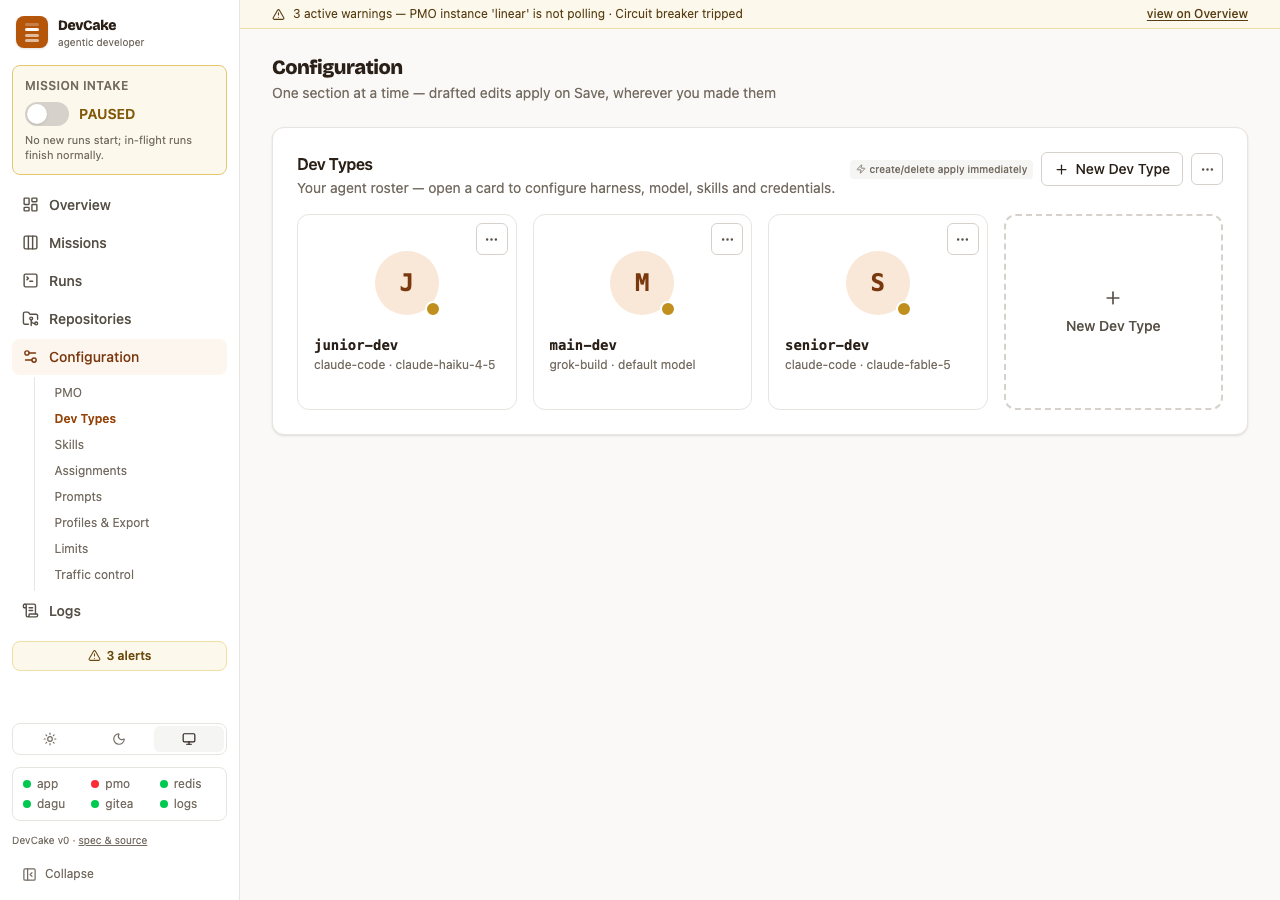
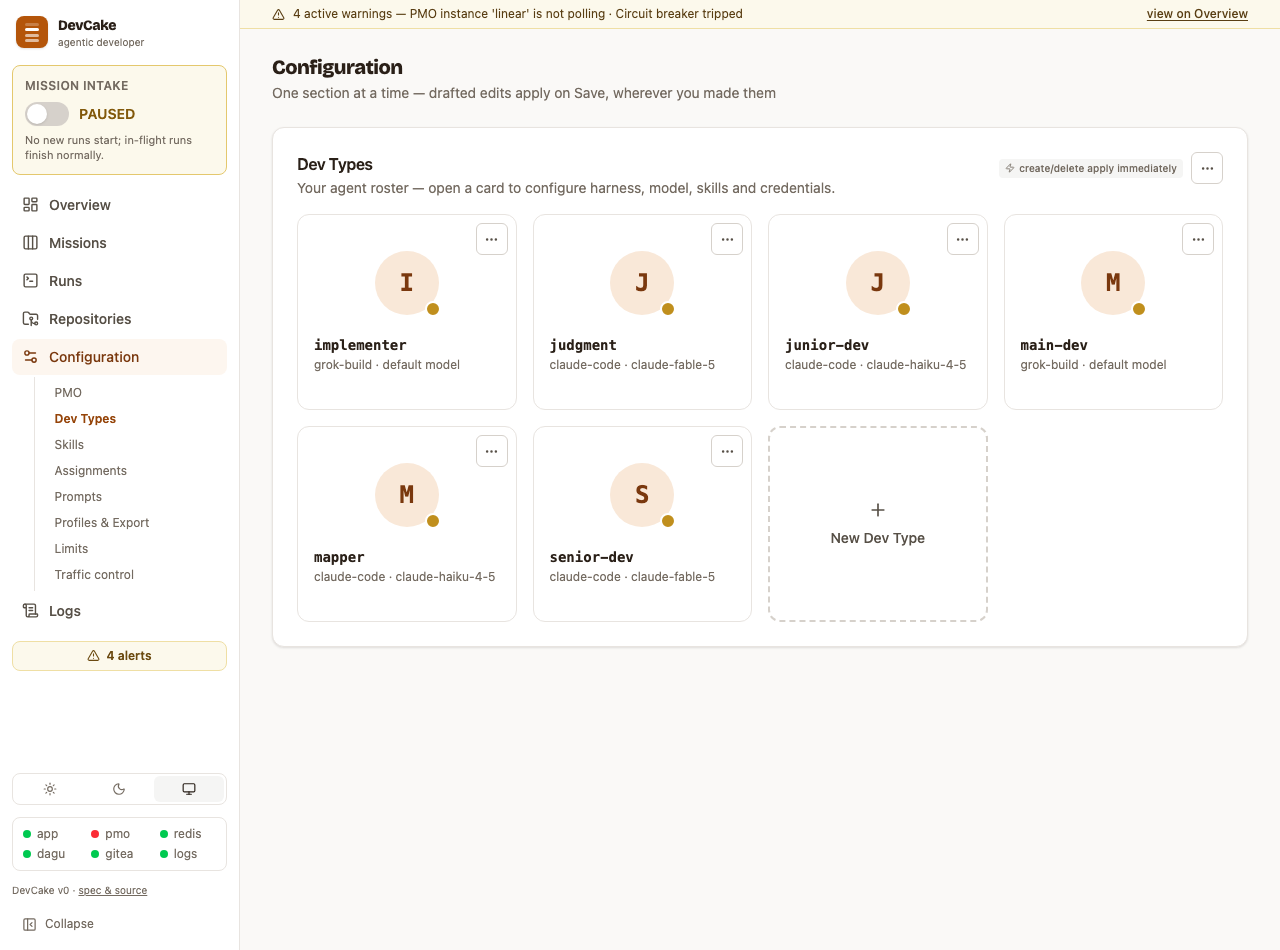
feat(admin): dashed tile is the sole create affordance
Drops the header's New Dev Type button — it duplicated the grid's dashed
tile. The header keeps the immediacy badge and the overflow menu (Clear
secrets stays there: destructive actions don't get header buttons).
devtypes.mjs now asserts exactly one create affordance.

diff --git a/admin/spa/src/components/DevTypesSection.jsx b/admin/spa/src/components/DevTypesSection.jsx
@@ -505,9 +505,7 @@ export default function DevTypesSection({ setPageErr, onHealthChange }) {
         actions={
           <>
             <ImmediateBadge text="create/delete apply immediately" />
-            <Button kind="ghost" icon={Plus} onClick={() => setAddDev(true)}>
-              New Dev Type
-            </Button>
+            {/* creation lives on the grid's dashed tile — no header twin */}
             <MoreMenu label="More Dev Types actions" items={[
               { label: CLEAR_SECRETS_ENTRY.menuLabel, danger: true,
                 desc: CLEAR_SECRETS_ENTRY.desc,

diff --git a/admin/spa/DESIGN.md b/admin/spa/DESIGN.md
@@ -104,6 +104,9 @@ Dev Types render as a **roster grid** (decided 2026-07-27, Buzz-style): compact
 tiles — monogram avatar in the accent tint (no emoji/illustrations), a
 credential-readiness dot (green = ready, amber = none), name in mono,
 `harness · model` line — plus a dashed "New Dev Type" tile closing the grid.
+The dashed tile is the ONLY create affordance — no twin button in the section
+header (the header keeps the immediacy badge and the ⋯; Clear secrets stays in
+the ⋯ even as its lone item, because §3.4 bars destructive header buttons).
 The whole tile opens the **editor modal**; Rename/Delete stay behind the
 tile's ⋯. The modal edits the shared draft (footer states "applied by the
 page-level Save" — no per-modal save button, ever); OAuth / uploads / secret
